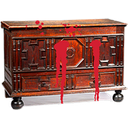
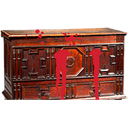
Bloody Seafood: cut the studio floor out from under the scatter chest
The chest cutout carried a slab of the photo's studio floor and its cast
shadow welded under the bun feet - 9.5% of the symbol was near-white, which
on a dark reel read as a pale box the chest was sitting in.

Keying it out by colour was the obvious approach and does not work here: the
floor recedes upward behind the chest so it is not a flat strip, and after
the brightness grade the chest's own lit lower rail sits in the same tonal
range, so every threshold that removed the floor also chewed away the case
and detached a foot. Keying off the ungraded plate, where the floor is
plainly neutral grey against saturated timber, still caught the rail.

Cropping above the floor line instead is exact. Measured off the ungraded
plate by row: the neutral-grey fraction holds around 18% through the case
and jumps past 50% at row 353, which is the floor. The feet go with it,
which the symbol reads fine without.

Whitish pixels drop 9.5% -> 3.6%, the remainder being real highlights on the
lid. Since SymbolSprite draws to a fixed box rather than fitting the art, the
scatter's height ratio moves 2.3 -> 1.81 to match the new aspect, so the
chest body keeps exactly the on-screen size it had.

diff --git a/apps/bloody_seafood/src/game/constants.ts b/apps/bloody_seafood/src/game/constants.ts
@@ -200,7 +200,11 @@ const m7Static = { type: 'sprite', assetKey: 'm2_7x.png', sizeRatios: { width: 1
 const m10Static = { type: 'sprite', assetKey: 'm3_10x.png', sizeRatios: { width: 1, height: 1 } };
 
 const wSizeRatios = { width: 1.5 * 0.9, height: SPECIAL_SYMBOL_SIZE * 1.15 };
-const sSizeRatios = { width: 2.5, height: SPECIAL_SYMBOL_SIZE * 2.3 };
+// SymbolSprite draws to this box outright rather than fitting to the art, so
+// the height tracks the scatter plate's own aspect: cropping the studio floor
+// off the bottom took the art from 310 to 244 rows, and leaving the height at
+// 2.3 would have stretched the chest to fill the difference.
+const sSizeRatios = { width: 2.5, height: SPECIAL_SYMBOL_SIZE * 1.81 };
 
 // Rust radial glow behind the tag (spec s3: "sits behind, static
 // position... no hard edges"). Every M state is now static: spec s3 says
